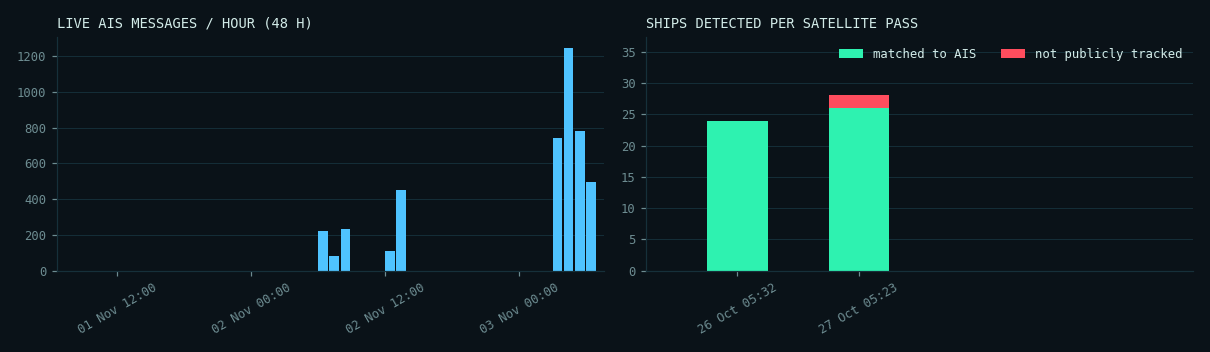
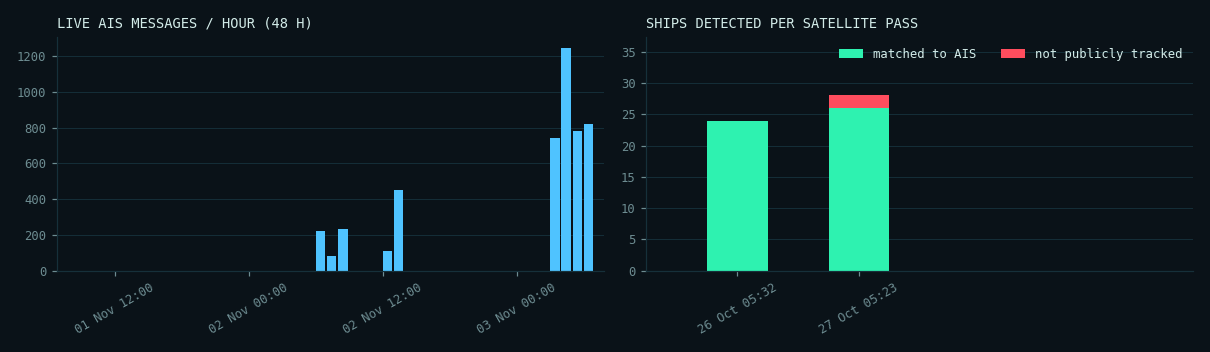
Automatic site update 2026-11-03 06:49 UTC

diff --git a/docs/denmark/index.html b/docs/denmark/index.html
@@ -83,13 +83,13 @@ footer{border-top:1px solid var(--line);padding:18px 0 28px;font:12px/1.6 var(--
   <div><div class="kicker">SAR &times; AIS &middot; MARITIME AWARENESS</div><div class="title">DARK VESSEL <b>DETECTION</b></div></div></a>
  <div class="status"><span class="pill"><span class="dot live"></span>AIS FEED <strong>LIVE</strong></span>
   <span class="pill">UTC <strong id="utc">--:--:--</strong></span>
-  <span class="pill">UPDATED <strong>03 Nov 06:35</strong></span></div>
+  <span class="pill">UPDATED <strong>03 Nov 06:49</strong></span></div>
 </div><nav class="tabs"><a class="" href="../index.html">OVERVIEW</a><a class="" href="../mumbai/index.html">MUMBAI</a><a class="on" href="../denmark/index.html">DENMARK</a><a class="" href="../nn/index.html">NEURAL NET</a><a class="" href="../demo/index.html">SIMULATION</a></nav></div></header>
 <main class="wrap"><div class="coords">SECTOR // DENMARK &middot; 55.55&ndash;55.85&deg;N &middot; 12.55&ndash;12.95&deg;E</div>
 <h1>Oresund, Copenhagen (Denmark/Sweden)</h1><p class="lede">Validation area. Sentinel-1 images it almost daily and coastal AIS coverage is dense, so the full match between radar and AIS can be shown and checked.</p>
 <div class="grid">
  <div class="panel"><div class="label">Live AIS feed</div><div class="value small"><span class='ok'>RECEIVING</span></div><div class="muted mono" style="font-size:12px;margin-top:6px">last message 0 min ago</div></div>
- <div class="panel"><div class="label">Ships broadcasting &middot; 30 min</div><div class="value cyan">58</div></div>
+ <div class="panel"><div class="label">Ships broadcasting &middot; 30 min</div><div class="value cyan">55</div></div>
  <div class="panel"><div class="label">Matched &middot; latest pass</div><div class="value ">26</div></div>
  <div class="panel"><div class="label">Not tracked &middot; high confidence</div><div class="value red">0</div></div>
  <div class="panel"><div class="label">Not tracked &middot; low confidence</div><div class="value amber">2</div></div>
@@ -98,7 +98,7 @@ footer{border-top:1px solid var(--line);padding:18px 0 28px;font:12px/1.6 var(--
 <div class="legend"><span><i style="background:var(--green)"></i>matched to AIS</span><span><i style="background:var(--red)"></i>not tracked &middot; high confidence</span>
 <span><i style="background:var(--amber)"></i>not tracked &middot; low confidence</span><span><i style="background:var(--cyan)"></i>live AIS position</span></div>
 <div id="map" class="map"></div><script>
-const D=[{"lon": 12.574560869565218, "lat": 55.849597826086956, "length_m": 72.681575622935, "score": 0.6554655519501138, "shore_km": 0.14150886088341372, "status": "matched", "reason": "", "confidence": "high", "crop": "", "ship_prob": 0.9335045218467712}, {"lon": 12.704759174311928, "lat": 55.82280412844037, "length_m": 364.1071436957287, "score": 0.9904753373251979, "shore_km": 9.407061429825474, "status": "matched", "reason": "", "confidence": "high", "crop": "", "ship_prob": 0.9868959784507751}, {"lon": 12.786416463414636, "lat": 55.804669512195126, "length_m": 155.0522474362954, "score": 0.9999646038759398, "shore_km": 4.658419014138412, "status": "matched", "reason": "", "confidence": "high", "crop": "", "ship_prob": 0.9993557333946228}, {"lon": 12.88229375, "lat": 55.849146875, "length_m": 53.38783327710226, "score": 0.9899546194309776, "shore_km": 0.9067240720863213, "status": "candidate", "reason": "same_spot_in_another_pass", "confidence": "low", "crop": "crops/S1-Oresund-20261027_37.png", "ship_prob": 0.7905591130256653}, {"lon": 12.604004166666668, "lat": 55.75985, "length_m": 141.84238362073958, "score": 0.6867268898684522, "shore_km": 0.07168283192738693, "status": "matched", "reason": "", "confidence": "high", "crop": "", "ship_prob": 0.5051270127296448}, {"lon": 12.605736764705883, "lat": 55.75241323529412, "length_m": 122.11483240811877, "score": 0.9136889320646264, "shore_km": 0.6454382429486746, "status": "candidate", "reason": "same_spot_in_another_pass", "confidence": "low", "crop": "crops/S1-Oresund-20261027_77.png", "ship_prob": 0.7927113175392151}, {"lon": 12.703722571428573, "lat": 55.77917742857143, "length_m": 223.0817648726515, "score": 0.9996320924909895, "shore_km": 5.943270442766068, "status": "matched", "reason": "", "confidence": "high", "crop": "", "ship_prob": 0.9938097596168518}, {"lon": 12.902757692307693, "lat": 55.75654230769231, "length_m": 65.46226537445588, "score": 0.7187896049600956, "shore_km": 0.03584141596369347, "status": "matched", "reason": "", "confidence": "high", "crop": "", "ship_prob": 0.8691755533218384}, {"lon": 12.589922222222222, "lat": 55.725764814814816, "length_m": 146.45480845096748, "score": 0.9957587025210503, "shore_km": 0.034771280891766385, "status": "matched", "reason": "", "confidence": "high", "crop": "", "ship_prob": 0.9983701109886169}, {"lon": 12.598472047244096, "lat": 55.72077913385827, "length_m": 207.62671185403417, "score": 0.609772230082722, "shore_km": 0.14016751439395445, "status": "matched", "reason": "", "confidence": "high", "crop": "", "ship_prob": 0.6074324250221252}, {"lon": 12.589218, "lat": 55.712854, "length_m": 90.49550243938293, "score": 0.6486089656085543, "shore_km": 0.043464101114707984, "status": "matched", "reason": "", "confidence": "high", "crop": "", "ship_prob": 0.9998902082443237}, {"lon": 12.59024090909091, "lat": 55.71147090909091, "length_m": 162.54265478639104, "score": 1.0, "shore_km": 0.06146752127277559, "status": "matched", "reason": "", "confidence": "high", "crop": "", "ship_prob": 0.9999992847442627}, {"lon": 12.597835937500001, "lat": 55.701648437500005, "length_m": 133.31776511703256, "score": 0.9396217092764791, "shore_km": 0.06789309632894441, "status": "matched", "reason": "", "confidence": "high", "crop": "", "ship_prob": 0.9999727010726929}, {"lon": 12.60914, "lat": 55.69712, "length_m": 65.36743236464424, "score": 0.7827588237578229, "shore_km": 0.03134240904220623, "status": "matched", "reason": "", "confidence": "high", "crop": "", "ship_prob": 0.9867132902145386}, {"lon": 12.668552272727274, "lat": 55.72007840909091, "length_m": 207.26605497726354, "score": 0.6251792307103263, "shore_km": 0.03584141596369347, "status": "matched", "reason": "", "confidence": "high", "crop": "", "ship_prob": 0.9087074398994446}, {"lon": 12.5996, "lat": 55.68885, "length_m": 40.00855981470757, "score": 0.7664068666153926, "shore_km": 0.024587008509110237, "status": "matched", "reason": "", "confidence": "high", "crop": "", "ship_prob": 0.9766618013381958}, {"lon": 12.595819230769232, "lat": 55.67989871794872, "length_m": 127.62371588738732, "score": 0.9426870407335851, "shore_km": 0.05068741655051085, "status": "matched", "reason": "", "confidence": "high", "crop": "", "ship_prob": 0.9998841285705566}, {"lon": 12.594722222222224, "lat": 55.67918888888889, "length_m": 40.64467714079742, "score": 0.7639524834029205, "shore_km": 0.043464101114707984, "status": "matched", "reason": "", "confidence": "high", "crop": "", "ship_prob": 0.9999454021453857}, {"lon": 12.610660714285714, "lat": 55.69618571428572, "length_m": 94.51225356515693, "score": 0.9621795096736379, "shore_km": 0.03134240904220623, "status": "matched", "reason": "", "confidence": "high", "crop": "", "ship_prob": 0.999042809009552}, {"lon": 12.649045000000001, "lat": 55.692155, "length_m": 80.63364746000343, "score": 0.8515033668168979, "shore_km": 0.8863693295037299, "status": "matched", "reason": "", "confidence": "high", "crop": "", "ship_prob": 0.4333752989768982}, {"lon": 12.630751724137932, "lat": 55.685453448275865, "length_m": 125.00287123881988, "score": 0.93629426700422, "shore_km": 0.043464101114707984, "status": "matched", "reason": "", "confidence": "high", "crop": "", "ship_prob": 0.9975905418395996}, {"lon": 12.634987254901962, "lat": 55.677338235294116, "length_m": 276.5478352749318, "score": 0.7686103584091717, "shore_km": 0.024587008509110237, "status": "matched", "reason": "", "confidence": "high", "crop": "", "ship_prob": 0.9729636907577515}, {"lon": 12.68766150442478, "lat": 55.69581814159292, "length_m": 176.8074930452176, "score": 0.923202226335388, "shore_km": 2.6834920471942074, "status": "matched", "reason": "", "confidence": "high", "crop": "", "ship_prob": 0.8427141904830933}, {"lon": 12.65826847826087, "lat": 55.63610108695652, "length_m": 174.21377549767067, "score": 0.9833187000337672, "shore_km": 0.043464101114707984, "status": "matched", "reason": "", "confidence": "high", "crop": "", "ship_prob": 0.9998973608016968}, {"lon": 12.680683333333334, "lat": 55.610910000000004, "length_m": 74.22790892756812, "score": 0.6314184609397504, "shore_km": 0.03134240904220623, "status": "matched", "reason": "", "confidence": "high", "crop": "", "ship_prob": 0.44054293632507324}, {"lon": 12.868352132196163, "lat": 55.60022420042644, "length_m": 299.20726350177785, "score": 0.9999960398718075, "shore_km": 2.8169298200726325, "status": "matched", "reason": "", "confidence": "high", "crop": "", "ship_prob": 0.9967911839485168}, {"lon": 12.680875, "lat": 55.59323, "length_m": 95.51211981545671, "score": 0.7585723176580392, "shore_km": 0.03584141596369347, "status": "matched", "reason": "", "confidence": "high", "crop": "", "ship_prob": 0.797581672668457}, {"lon": 12.706387741935485, "lat": 55.56306903225806, "length_m": 301.4640427512081, "score": 0.9999731380181186, "shore_km": 3.1965238712919084, "status": "matched", "reason": "", "confidence": "high", "crop": "", "ship_prob": 0.9941650032997131}],LIVE=[{"lon": 13.03514, "lat": 55.624698333333335, "sog": 0.1, "age": 26}, {"lon": 12.603501666666666, "lat": 55.76060333333333, "sog": 0.0, "age": 23}, {"lon": 12.676611666666668, "lat": 55.93177333333333, "sog": 0.0, "age": 21}, {"lon": 12.833733333333333, "lat": 55.85573333333333, "sog": 0.0, "age": 20}, {"lon": 12.665905, "lat": 55.719773333333336, "sog": 0.0, "age": 18}, {"lon": 12.646843333333333, "lat": 55.677389999999995, "sog": 0.0, "age": 16}, {"lon": 12.592983333333333, "lat": 55.67926166666667, "sog": 0.0, "age": 14}, {"lon": 12.593533333333333, "lat": 55.67915, "sog": 0.0, "age": 12}, {"lon": 12.835138333333333, "lat": 55.85987, "sog": 0.0, "age": 12}, {"lon": 12.990161666666667, "lat": 55.62688, "sog": 0.0, "age": 10}, {"lon": 13.033296666666667, "lat": 55.62452, "sog": 0.0, "age": 10}, {"lon": 12.692533333333333, "lat": 55.50602666666667, "sog": 10.1, "age": 10}, {"lon": 12.634111666666666, "lat": 55.675758333333334, "sog": 0.0, "age": 10}, {"lon": 12.955386666666667, "lat": 55.65205, "sog": 5.0, "age": 9}, {"lon": 12.634843333333333, "lat": 55.687155, "sog": 0.0, "age": 9}, {"lon": 12.729386666666667, "lat": 55.98001, "sog": 0.0, "age": 7}, {"lon": 12.594948333333333, "lat": 55.68244666666667, "sog": 0.0, "age": 6}, {"lon": 12.680433333333333, "lat": 55.611239999999995, "sog": 0.0, "age": 5}, {"lon": 12.488356666666666, "lat": 55.51745833333334, "sog": 0.0, "age": 5}, {"lon": 12.903505, "lat": 55.756643333333336, "sog": 0.1, "age": 5}, {"lon": 12.744415, "lat": 55.993293333333334, "sog": 0.0, "age": 5}, {"lon": 12.482431666666667, "lat": 55.60140666666667, "sog": 0.0, "age": 5}, {"lon": 12.8329, "lat": 55.85850666666667, "sog": 0.0, "age": 5}, {"lon": 12.694516666666667, "lat": 55.631795000000004, "sog": 9.9, "age": 4}, {"lon": 12.997353333333333, "lat": 55.61365, "sog": 0.0, "age": 4}, {"lon": 12.66508, "lat": 55.827745, "sog": 8.0, "age": 4}, {"lon": 12.744443333333333, "lat": 55.993225, "sog": 0.0, "age": 3}, {"lon": 12.62525, "lat": 55.69106166666666, "sog": 0.0, "age": 3}, {"lon": 12.999793333333335, "lat": 55.618365000000004, "sog": 0.0, "age": 3}, {"lon": 12.833333333333334, "lat": 55.855916666666666, "sog": 0.0, "age": 3}, {"lon": 12.766726666666667, "lat": 55.886995, "sog": 6.1, "age": 3}, {"lon": 12.823966666666667, "lat": 55.864866666666664, "sog": 6.0, "age": 3}, {"lon": 12.603496666666667, "lat": 55.760515000000005, "sog": 0.0, "age": 3}, {"lon": 12.68016, "lat": 55.59282333333333, "sog": 0.0, "age": 2}, {"lon": 12.680065, "lat": 55.59288166666667, "sog": 0.0, "age": 2}, {"lon": 12.98892, "lat": 55.62665666666667, "sog": 0.0, "age": 2}, {"lon": 12.599029999999999, "lat": 55.68902833333333, "sog": 0.0, "age": 2}, {"lon": 12.830413333333333, "lat": 55.85601333333333, "sog": 0.0, "age": 2}, {"lon": 12.823649999999999, "lat": 55.86640333333333, "sog": 0.1, "age": 2}, {"lon": 12.997253333333333, "lat": 55.61376, "sog": 0.1, "age": 2}, {"lon": 13.058503333333334, "lat": 55.67564333333333, "sog": 0.0, "age": 2}, {"lon": 12.892185000000001, "lat": 55.52374, "sog": 0.0, "age": 2}, {"lon": 12.825334999999999, "lat": 55.86550666666667, "sog": 0.0, "age": 2}, {"lon": 12.831928333333334, "lat": 55.85404333333334, "sog": 0.0, "age": 2}, {"lon": 12.72982, "lat": 55.75190166666666, "sog": 0.0, "age": 2}, {"lon": 13.033818333333333, "lat": 55.624583333333334, "sog": 0.0, "age": 2}, {"lon": 12.630748333333335, "lat": 55.689814999999996, "sog": 0.0, "age": 1}, {"lon": 12.635351666666667, "lat": 55.67645166666667, "sog": 0.0, "age": 1}, {"lon": 12.501046666666667, "lat": 55.611325, "sog": 0.0, "age": 1}, {"lon": 12.676873333333333, "lat": 55.593963333333335, "sog": 0.0, "age": 1}, {"lon": 12.666920000000001, "lat": 55.71885333333333, "sog": 0.0, "age": 1}, {"lon": 12.77362, "lat": 55.884143333333334, "sog": 7.0, "age": 0}, {"lon": 12.647461666666667, "lat": 55.67688166666667, "sog": 0.1, "age": 0}, {"lon": 12.572748333333333, "lat": 55.850856666666665, "sog": 0.0, "age": 0}, {"lon": 12.63975, "lat": 55.86651666666667, "sog": 7.1, "age": 0}, {"lon": 12.827591666666667, "lat": 55.862719999999996, "sog": 0.0, "age": 0}, {"lon": 12.662741666666667, "lat": 55.875035000000004, "sog": 8.2, "age": 0}, {"lon": 12.701395, "lat": 55.465651666666666, "sog": 11.1, "age": 0}],B=[[55.55,12.55],[55.85,12.95]];const m=L.map('map',{zoomSnap:.25}).fitBounds(B);
+const D=[{"lon": 12.574560869565218, "lat": 55.849597826086956, "length_m": 72.681575622935, "score": 0.6554655519501138, "shore_km": 0.14150886088341372, "status": "matched", "reason": "", "confidence": "high", "crop": "", "ship_prob": 0.9335045218467712}, {"lon": 12.704759174311928, "lat": 55.82280412844037, "length_m": 364.1071436957287, "score": 0.9904753373251979, "shore_km": 9.407061429825474, "status": "matched", "reason": "", "confidence": "high", "crop": "", "ship_prob": 0.9868959784507751}, {"lon": 12.786416463414636, "lat": 55.804669512195126, "length_m": 155.0522474362954, "score": 0.9999646038759398, "shore_km": 4.658419014138412, "status": "matched", "reason": "", "confidence": "high", "crop": "", "ship_prob": 0.9993557333946228}, {"lon": 12.88229375, "lat": 55.849146875, "length_m": 53.38783327710226, "score": 0.9899546194309776, "shore_km": 0.9067240720863213, "status": "candidate", "reason": "same_spot_in_another_pass", "confidence": "low", "crop": "crops/S1-Oresund-20261027_37.png", "ship_prob": 0.7905591130256653}, {"lon": 12.604004166666668, "lat": 55.75985, "length_m": 141.84238362073958, "score": 0.6867268898684522, "shore_km": 0.07168283192738693, "status": "matched", "reason": "", "confidence": "high", "crop": "", "ship_prob": 0.5051270127296448}, {"lon": 12.605736764705883, "lat": 55.75241323529412, "length_m": 122.11483240811877, "score": 0.9136889320646264, "shore_km": 0.6454382429486746, "status": "candidate", "reason": "same_spot_in_another_pass", "confidence": "low", "crop": "crops/S1-Oresund-20261027_77.png", "ship_prob": 0.7927113175392151}, {"lon": 12.703722571428573, "lat": 55.77917742857143, "length_m": 223.0817648726515, "score": 0.9996320924909895, "shore_km": 5.943270442766068, "status": "matched", "reason": "", "confidence": "high", "crop": "", "ship_prob": 0.9938097596168518}, {"lon": 12.902757692307693, "lat": 55.75654230769231, "length_m": 65.46226537445588, "score": 0.7187896049600956, "shore_km": 0.03584141596369347, "status": "matched", "reason": "", "confidence": "high", "crop": "", "ship_prob": 0.8691755533218384}, {"lon": 12.589922222222222, "lat": 55.725764814814816, "length_m": 146.45480845096748, "score": 0.9957587025210503, "shore_km": 0.034771280891766385, "status": "matched", "reason": "", "confidence": "high", "crop": "", "ship_prob": 0.9983701109886169}, {"lon": 12.598472047244096, "lat": 55.72077913385827, "length_m": 207.62671185403417, "score": 0.609772230082722, "shore_km": 0.14016751439395445, "status": "matched", "reason": "", "confidence": "high", "crop": "", "ship_prob": 0.6074324250221252}, {"lon": 12.589218, "lat": 55.712854, "length_m": 90.49550243938293, "score": 0.6486089656085543, "shore_km": 0.043464101114707984, "status": "matched", "reason": "", "confidence": "high", "crop": "", "ship_prob": 0.9998902082443237}, {"lon": 12.59024090909091, "lat": 55.71147090909091, "length_m": 162.54265478639104, "score": 1.0, "shore_km": 0.06146752127277559, "status": "matched", "reason": "", "confidence": "high", "crop": "", "ship_prob": 0.9999992847442627}, {"lon": 12.597835937500001, "lat": 55.701648437500005, "length_m": 133.31776511703256, "score": 0.9396217092764791, "shore_km": 0.06789309632894441, "status": "matched", "reason": "", "confidence": "high", "crop": "", "ship_prob": 0.9999727010726929}, {"lon": 12.60914, "lat": 55.69712, "length_m": 65.36743236464424, "score": 0.7827588237578229, "shore_km": 0.03134240904220623, "status": "matched", "reason": "", "confidence": "high", "crop": "", "ship_prob": 0.9867132902145386}, {"lon": 12.668552272727274, "lat": 55.72007840909091, "length_m": 207.26605497726354, "score": 0.6251792307103263, "shore_km": 0.03584141596369347, "status": "matched", "reason": "", "confidence": "high", "crop": "", "ship_prob": 0.9087074398994446}, {"lon": 12.5996, "lat": 55.68885, "length_m": 40.00855981470757, "score": 0.7664068666153926, "shore_km": 0.024587008509110237, "status": "matched", "reason": "", "confidence": "high", "crop": "", "ship_prob": 0.9766618013381958}, {"lon": 12.595819230769232, "lat": 55.67989871794872, "length_m": 127.62371588738732, "score": 0.9426870407335851, "shore_km": 0.05068741655051085, "status": "matched", "reason": "", "confidence": "high", "crop": "", "ship_prob": 0.9998841285705566}, {"lon": 12.594722222222224, "lat": 55.67918888888889, "length_m": 40.64467714079742, "score": 0.7639524834029205, "shore_km": 0.043464101114707984, "status": "matched", "reason": "", "confidence": "high", "crop": "", "ship_prob": 0.9999454021453857}, {"lon": 12.610660714285714, "lat": 55.69618571428572, "length_m": 94.51225356515693, "score": 0.9621795096736379, "shore_km": 0.03134240904220623, "status": "matched", "reason": "", "confidence": "high", "crop": "", "ship_prob": 0.999042809009552}, {"lon": 12.649045000000001, "lat": 55.692155, "length_m": 80.63364746000343, "score": 0.8515033668168979, "shore_km": 0.8863693295037299, "status": "matched", "reason": "", "confidence": "high", "crop": "", "ship_prob": 0.4333752989768982}, {"lon": 12.630751724137932, "lat": 55.685453448275865, "length_m": 125.00287123881988, "score": 0.93629426700422, "shore_km": 0.043464101114707984, "status": "matched", "reason": "", "confidence": "high", "crop": "", "ship_prob": 0.9975905418395996}, {"lon": 12.634987254901962, "lat": 55.677338235294116, "length_m": 276.5478352749318, "score": 0.7686103584091717, "shore_km": 0.024587008509110237, "status": "matched", "reason": "", "confidence": "high", "crop": "", "ship_prob": 0.9729636907577515}, {"lon": 12.68766150442478, "lat": 55.69581814159292, "length_m": 176.8074930452176, "score": 0.923202226335388, "shore_km": 2.6834920471942074, "status": "matched", "reason": "", "confidence": "high", "crop": "", "ship_prob": 0.8427141904830933}, {"lon": 12.65826847826087, "lat": 55.63610108695652, "length_m": 174.21377549767067, "score": 0.9833187000337672, "shore_km": 0.043464101114707984, "status": "matched", "reason": "", "confidence": "high", "crop": "", "ship_prob": 0.9998973608016968}, {"lon": 12.680683333333334, "lat": 55.610910000000004, "length_m": 74.22790892756812, "score": 0.6314184609397504, "shore_km": 0.03134240904220623, "status": "matched", "reason": "", "confidence": "high", "crop": "", "ship_prob": 0.44054293632507324}, {"lon": 12.868352132196163, "lat": 55.60022420042644, "length_m": 299.20726350177785, "score": 0.9999960398718075, "shore_km": 2.8169298200726325, "status": "matched", "reason": "", "confidence": "high", "crop": "", "ship_prob": 0.9967911839485168}, {"lon": 12.680875, "lat": 55.59323, "length_m": 95.51211981545671, "score": 0.7585723176580392, "shore_km": 0.03584141596369347, "status": "matched", "reason": "", "confidence": "high", "crop": "", "ship_prob": 0.797581672668457}, {"lon": 12.706387741935485, "lat": 55.56306903225806, "length_m": 301.4640427512081, "score": 0.9999731380181186, "shore_km": 3.1965238712919084, "status": "matched", "reason": "", "confidence": "high", "crop": "", "ship_prob": 0.9941650032997131}],LIVE=[{"lon": 12.488356666666666, "lat": 55.51745833333334, "sog": 0.0, "age": 19}, {"lon": 12.833333333333334, "lat": 55.855916666666666, "sog": 0.0, "age": 17}, {"lon": 12.98892, "lat": 55.62665666666667, "sog": 0.0, "age": 16}, {"lon": 12.831928333333334, "lat": 55.85404333333334, "sog": 0.0, "age": 15}, {"lon": 12.72982, "lat": 55.75190166666666, "sog": 0.0, "age": 15}, {"lon": 12.630748333333335, "lat": 55.689814999999996, "sog": 0.0, "age": 15}, {"lon": 12.603531666666667, "lat": 55.760585, "sog": 0.0, "age": 12}, {"lon": 12.644496666666667, "lat": 55.86146333333333, "sog": 6.4, "age": 11}, {"lon": 12.603488333333333, "lat": 55.76052, "sog": 0.0, "age": 10}, {"lon": 12.599025000000001, "lat": 55.68903, "sog": 0.0, "age": 10}, {"lon": 12.676871666666667, "lat": 55.593945, "sog": 0.0, "age": 10}, {"lon": 12.835138333333333, "lat": 55.85987, "sog": 0.0, "age": 8}, {"lon": 12.594931666666668, "lat": 55.68246333333333, "sog": 0.0, "age": 8}, {"lon": 12.8337, "lat": 55.85573333333333, "sog": 0.0, "age": 7}, {"lon": 12.67103, "lat": 55.80437, "sog": 7.5, "age": 7}, {"lon": 12.830375, "lat": 55.85599, "sog": 0.0, "age": 6}, {"lon": 12.74443, "lat": 55.99321833333333, "sog": 0.0, "age": 6}, {"lon": 12.997241666666667, "lat": 55.61376166666666, "sog": 0.0, "age": 6}, {"lon": 12.667035, "lat": 55.718873333333335, "sog": 0.0, "age": 5}, {"lon": 12.999793333333335, "lat": 55.618365000000004, "sog": 0.0, "age": 5}, {"lon": 12.634823333333333, "lat": 55.687153333333335, "sog": 0.0, "age": 4}, {"lon": 12.892186666666667, "lat": 55.52375, "sog": 0.0, "age": 4}, {"lon": 12.827631666666667, "lat": 55.86268666666667, "sog": 0.0, "age": 4}, {"lon": 12.593483333333333, "lat": 55.679125, "sog": 0.0, "age": 4}, {"lon": 12.990161666666667, "lat": 55.626885, "sog": 0.0, "age": 3}, {"lon": 12.793591666666666, "lat": 55.86846833333333, "sog": 5.7, "age": 3}, {"lon": 12.625265, "lat": 55.691069999999996, "sog": 0.0, "age": 3}, {"lon": 12.67917, "lat": 55.85080833333333, "sog": 8.4, "age": 3}, {"lon": 12.90349, "lat": 55.756643333333336, "sog": 0.1, "age": 3}, {"lon": 12.927976666666666, "lat": 55.67614833333334, "sog": 5.0, "age": 3}, {"lon": 12.706881666666668, "lat": 55.500275, "sog": 11.5, "age": 2}, {"lon": 12.634101666666668, "lat": 55.67576, "sog": 0.0, "age": 2}, {"lon": 12.825263333333334, "lat": 55.86550833333333, "sog": 0.0, "age": 2}, {"lon": 12.823638333333333, "lat": 55.866409999999995, "sog": 0.1, "age": 2}, {"lon": 13.033761666666667, "lat": 55.62455333333333, "sog": 0.0, "age": 1}, {"lon": 12.828116666666666, "lat": 55.86160666666667, "sog": 0.0, "age": 1}, {"lon": 12.680413333333332, "lat": 55.611255, "sog": 0.0, "age": 1}, {"lon": 12.997355, "lat": 55.61365333333333, "sog": 0.0, "age": 1}, {"lon": 13.058496666666667, "lat": 55.67566166666666, "sog": 0.0, "age": 1}, {"lon": 12.59298, "lat": 55.679265, "sog": 0.0, "age": 1}, {"lon": 12.744413333333334, "lat": 55.99330166666667, "sog": 0.0, "age": 1}, {"lon": 12.67176, "lat": 55.43888166666667, "sog": 10.7, "age": 0}, {"lon": 12.8329, "lat": 55.85850666666667, "sog": 0.0, "age": 0}, {"lon": 12.690681666666668, "lat": 55.58618, "sog": 8.7, "age": 0}, {"lon": 12.800338333333334, "lat": 55.867713333333334, "sog": 5.7, "age": 0}, {"lon": 12.701333333333334, "lat": 55.58576166666667, "sog": 8.9, "age": 0}, {"lon": 13.033296666666667, "lat": 55.62450666666667, "sog": 0.0, "age": 0}, {"lon": 12.729733333333334, "lat": 55.980090000000004, "sog": 0.0, "age": 0}, {"lon": 12.572735, "lat": 55.85085333333333, "sog": 0.0, "age": 0}, {"lon": 12.635388333333333, "lat": 55.676476666666666, "sog": 0.0, "age": 0}, {"lon": 12.485629999999999, "lat": 55.600620000000006, "sog": 0.0, "age": 0}, {"lon": 12.501059999999999, "lat": 55.611308333333334, "sog": 0.0, "age": 0}, {"lon": 12.680063333333333, "lat": 55.59287500000001, "sog": 0.0, "age": 0}, {"lon": 12.647476666666668, "lat": 55.676878333333335, "sog": 0.1, "age": 0}, {"lon": 12.82465, "lat": 55.86561666666667, "sog": 3.4, "age": 0}],B=[[55.55,12.55],[55.85,12.95]];const m=L.map('map',{zoomSnap:.25}).fitBounds(B);
 // re-fit once layout has settled: if the container had no size when the map was created, Leaflet falls back to zoom 0
 const refit=()=>{m.invalidateSize();m.fitBounds(B);};setTimeout(refit,0);window.addEventListener('load',refit);
 // standard OSM tiles (no API key), turned into a dark "radar console" basemap with a CSS filter (.radar-tiles)
@@ -116,7 +116,7 @@ L.control.layers(null,{'Radar detections (selected pass)':det,'Live AIS, last 30
 </script>
 <h2>Pass log</h2><div class='tablewrap'><table><thead><tr><th>pass (UTC)</th><th>ships</th><th>matched</th><th>not tracked</th><th>low conf.</th><th>match rate</th><th>AIS msgs</th></tr></thead><tbody><tr><td>2026-10-27 05:23 UTC</td><td>28</td><td class='ok'>26</td><td class='bad'>0</td><td style='color:var(--amber)'>2</td><td>93%</td><td>10687</td></tr><tr><td>2026-10-26 05:32 UTC</td><td>24</td><td class='ok'>24</td><td class='bad'>0</td><td style='color:var(--amber)'>0</td><td>100%</td><td>11603</td></tr></tbody></table></div>
 <h2>Telemetry</h2><img class="chart" src="charts.png" alt="AIS messages per hour and ships detected per pass">
-<p class="muted mono" style="font-size:12px">Feed gaps in the last 24 h: 15 (1210 min) &middot; AIS messages in the last hour: 800</p>
+<p class="muted mono" style="font-size:12px">Feed gaps in the last 24 h: 15 (1210 min) &middot; AIS messages in the last hour: 824</p>
 <h2>Recent Sentinel-1 acquisitions</h2><ul class="acq"><li>2026-11-02 05:23 UTC</li><li>2026-11-01 16:44 UTC</li><li>2026-11-01 05:31 UTC</li><li>2026-10-31 16:52 UTC</li><li>2026-10-30 17:00 UTC</li><li>2026-10-27 05:23 UTC</li><li>2026-10-26 05:32 UTC</li><li>2026-10-25 16:52 UTC</li></ul></main>
 <footer><div class="wrap">Data: Copernicus Sentinel-1 (ESA) &middot; AIS via aisstream.io and the Danish Maritime Authority &middot;
 coastlines, structures and basemap &copy; OpenStreetMap contributors. Flags are candidates for review, not accusations.</div></footer>

diff --git a/docs/index.html b/docs/index.html
@@ -83,7 +83,7 @@ footer{border-top:1px solid var(--line);padding:18px 0 28px;font:12px/1.6 var(--
   <div><div class="kicker">SAR &times; AIS &middot; MARITIME AWARENESS</div><div class="title">DARK VESSEL <b>DETECTION</b></div></div></a>
  <div class="status"><span class="pill"><span class="dot live"></span>AIS FEED <strong>LIVE</strong></span>
   <span class="pill">UTC <strong id="utc">--:--:--</strong></span>
-  <span class="pill">UPDATED <strong>03 Nov 06:35</strong></span></div>
+  <span class="pill">UPDATED <strong>03 Nov 06:49</strong></span></div>
 </div><nav class="tabs"><a class="on" href="index.html">OVERVIEW</a><a class="" href="mumbai/index.html">MUMBAI</a><a class="" href="denmark/index.html">DENMARK</a><a class="" href="nn/index.html">NEURAL NET</a><a class="" href="demo/index.html">SIMULATION</a></nav></div></header>
 <main class="wrap"><div class="coords">SYSTEM OVERVIEW</div>
 <h1>Ships the radar sees that nobody is tracking</h1>
@@ -91,7 +91,7 @@ footer{border-top:1px solid var(--line);padding:18px 0 28px;font:12px/1.6 var(--
 This system compares the two for each processed Sentinel-1 pass and lists the ships that appear on radar with no matching AIS signal.</p>
 <div class="grid" style="margin-top:18px"><div class="panel"><div class="label">Satellite passes processed</div><div class="value ">3</div></div><div class="panel"><div class="label">Ships matched to AIS</div><div class="value ">50</div></div>
 <div class="panel"><div class="label">Not tracked &middot; high confidence</div><div class="value red">0</div></div><div class="panel"><div class="label">Not tracked &middot; low confidence</div><div class="value amber">117</div></div>
-<div class="panel"><div class="label">Broadcasting now &middot; 30 min</div><div class="value cyan">58</div></div></div>
+<div class="panel"><div class="label">Broadcasting now &middot; 30 min</div><div class="value cyan">55</div></div></div>
 <p class="muted" style="font-size:13px;margin-top:10px"><b>High confidence</b> = no AIS ship nearby although the AIS feed was healthy and the
 target is within receiver range, and it is not at a spot where something was also seen on another pass. Everything else is
 <b>low confidence</b>: the data cannot support calling it dark (for example Mumbai, where no AIS was available for the pass at all).</p>
@@ -114,14 +114,14 @@ same pipeline using historical AIS. Next expected passes: Mumbai about 5 Nov 01:
 <div class="kv"><span>ships matched to AIS</span><span class="ok">50</span></div>
 <div class="kv"><span>not tracked, high confidence</span><span class="bad">0</span></div>
 <div class="kv"><span>not tracked, low confidence</span><span style="color:var(--amber)">2</span></div>
-<div class="kv"><span>broadcasting now (30 min)</span><span style="color:var(--cyan)">58</span></div>
+<div class="kv"><span>broadcasting now (30 min)</span><span style="color:var(--cyan)">55</span></div>
 <div class="go">OPEN SECTOR &rarr;</div></a></div>
 <h2>Read before trusting a flag</h2>
 <div class="alert"><b>"Not publicly tracked" is not "switched off".</b> Small boats often carry no public AIS, free AIS comes from coastal
 receivers with limited range, and ships under about 40 m are not reliably visible to the satellite. Low-confidence flags are the ones the
 data cannot support: beyond receiver range, during an AIS feed gap, or with no AIS recorded.</div>
 <h2>Automatic runs</h2><p class="muted mono" style="font-size:12.5px;margin-top:-4px">Each row is one automatic website rebuild, with the live AIS counts at that moment. Newest first.</p>
-<div class="tablewrap"><table><thead><tr><th>run (UTC)</th><th>mumbai live</th><th>mumbai msg/h</th><th>denmark live</th><th>denmark msg/h</th></tr></thead><tbody><tr><td>2026-11-03 06:35</td><td>0</td><td>0</td><td>58</td><td>800</td></tr><tr><td>2026-11-03 06:34</td><td>0</td><td>0</td><td>58</td><td>816</td></tr><tr><td>2026-11-03 06:20</td><td>0</td><td>0</td><td>51</td><td>876</td></tr><tr><td>2026-11-03 06:19</td><td>0</td><td>0</td><td>47</td><td>866</td></tr><tr><td>2026-11-03 05:46</td><td>0</td><td>0</td><td>62</td><td>986</td></tr><tr><td>2026-11-03 05:44</td><td>0</td><td>0</td><td>62</td><td>992</td></tr><tr><td>2026-11-03 05:30</td><td>0</td><td>0</td><td>57</td><td>972</td></tr><tr><td>2026-11-03 05:29</td><td>0</td><td>0</td><td>57</td><td>970</td></tr><tr><td>2026-11-03 05:14</td><td>0</td><td>0</td><td>50</td><td>1000</td></tr><tr><td>2026-11-03 05:13</td><td>0</td><td>0</td><td>50</td><td>1026</td></tr><tr><td>2026-11-03 04:59</td><td>0</td><td>0</td><td>58</td><td>1250</td></tr><tr><td>2026-11-03 04:58</td><td>0</td><td>0</td><td>59</td><td>1250</td></tr><tr><td>2026-11-03 04:44</td><td>0</td><td>0</td><td>60</td><td>1240</td></tr><tr><td>2026-11-03 04:42</td><td>0</td><td>0</td><td>59</td><td>1248</td></tr><tr><td>2026-11-03 04:28</td><td>0</td><td>0</td><td>58</td><td>1242</td></tr><tr><td>2026-11-03 04:27</td><td>0</td><td>0</td><td>57</td><td>1240</td></tr><tr><td>2026-11-03 04:12</td><td>0</td><td>0</td><td>56</td><td>994</td></tr><tr><td>2026-11-03 04:11</td><td>0</td><td>0</td><td>56</td><td>967</td></tr><tr><td>2026-11-03 03:57</td><td>0</td><td>0</td><td>59</td><td>666</td></tr><tr><td>2026-11-03 03:55</td><td>0</td><td>0</td><td>59</td><td>644</td></tr><tr><td>2026-11-03 03:41</td><td>0</td><td>0</td><td>58</td><td>348</td></tr><tr><td>2026-11-03 03:40</td><td>0</td><td>0</td><td>58</td><td>330</td></tr><tr><td>2026-11-03 03:26</td><td>0</td><td>0</td><td>31</td><td>65</td></tr><tr><td>2026-11-03 03:24</td><td>0</td><td>0</td><td>27</td><td>52</td></tr></tbody></table></div></main>
+<div class="tablewrap"><table><thead><tr><th>run (UTC)</th><th>mumbai live</th><th>mumbai msg/h</th><th>denmark live</th><th>denmark msg/h</th></tr></thead><tbody><tr><td>2026-11-03 06:49</td><td>0</td><td>0</td><td>55</td><td>824</td></tr><tr><td>2026-11-03 06:35</td><td>0</td><td>0</td><td>58</td><td>800</td></tr><tr><td>2026-11-03 06:34</td><td>0</td><td>0</td><td>58</td><td>816</td></tr><tr><td>2026-11-03 06:20</td><td>0</td><td>0</td><td>51</td><td>876</td></tr><tr><td>2026-11-03 06:19</td><td>0</td><td>0</td><td>47</td><td>866</td></tr><tr><td>2026-11-03 05:46</td><td>0</td><td>0</td><td>62</td><td>986</td></tr><tr><td>2026-11-03 05:44</td><td>0</td><td>0</td><td>62</td><td>992</td></tr><tr><td>2026-11-03 05:30</td><td>0</td><td>0</td><td>57</td><td>972</td></tr><tr><td>2026-11-03 05:29</td><td>0</td><td>0</td><td>57</td><td>970</td></tr><tr><td>2026-11-03 05:14</td><td>0</td><td>0</td><td>50</td><td>1000</td></tr><tr><td>2026-11-03 05:13</td><td>0</td><td>0</td><td>50</td><td>1026</td></tr><tr><td>2026-11-03 04:59</td><td>0</td><td>0</td><td>58</td><td>1250</td></tr><tr><td>2026-11-03 04:58</td><td>0</td><td>0</td><td>59</td><td>1250</td></tr><tr><td>2026-11-03 04:44</td><td>0</td><td>0</td><td>60</td><td>1240</td></tr><tr><td>2026-11-03 04:42</td><td>0</td><td>0</td><td>59</td><td>1248</td></tr><tr><td>2026-11-03 04:28</td><td>0</td><td>0</td><td>58</td><td>1242</td></tr><tr><td>2026-11-03 04:27</td><td>0</td><td>0</td><td>57</td><td>1240</td></tr><tr><td>2026-11-03 04:12</td><td>0</td><td>0</td><td>56</td><td>994</td></tr><tr><td>2026-11-03 04:11</td><td>0</td><td>0</td><td>56</td><td>967</td></tr><tr><td>2026-11-03 03:57</td><td>0</td><td>0</td><td>59</td><td>666</td></tr><tr><td>2026-11-03 03:55</td><td>0</td><td>0</td><td>59</td><td>644</td></tr><tr><td>2026-11-03 03:41</td><td>0</td><td>0</td><td>58</td><td>348</td></tr><tr><td>2026-11-03 03:40</td><td>0</td><td>0</td><td>58</td><td>330</td></tr><tr><td>2026-11-03 03:26</td><td>0</td><td>0</td><td>31</td><td>65</td></tr></tbody></table></div></main>
 <footer><div class="wrap">Data: Copernicus Sentinel-1 (ESA) &middot; AIS via aisstream.io and the Danish Maritime Authority &middot;
 coastlines, structures and basemap &copy; OpenStreetMap contributors. Flags are candidates for review, not accusations.</div></footer>
 <script>(function(){const e=document.getElementById('utc');const t=()=>e.textContent=new Date().toISOString().slice(11,19);t();setInterval(t,1000);})();</script>

diff --git a/docs/mumbai/index.html b/docs/mumbai/index.html
@@ -83,7 +83,7 @@ footer{border-top:1px solid var(--line);padding:18px 0 28px;font:12px/1.6 var(--
   <div><div class="kicker">SAR &times; AIS &middot; MARITIME AWARENESS</div><div class="title">DARK VESSEL <b>DETECTION</b></div></div></a>
  <div class="status"><span class="pill"><span class="dot live"></span>AIS FEED <strong>LIVE</strong></span>
   <span class="pill">UTC <strong id="utc">--:--:--</strong></span>
-  <span class="pill">UPDATED <strong>03 Nov 06:35</strong></span></div>
+  <span class="pill">UPDATED <strong>03 Nov 06:49</strong></span></div>
 </div><nav class="tabs"><a class="" href="../index.html">OVERVIEW</a><a class="on" href="../mumbai/index.html">MUMBAI</a><a class="" href="../denmark/index.html">DENMARK</a><a class="" href="../nn/index.html">NEURAL NET</a><a class="" href="../demo/index.html">SIMULATION</a></nav></div></header>
 <main class="wrap"><div class="coords">SECTOR // MUMBAI &middot; 18.80&ndash;19.10&deg;N &middot; 72.55&ndash;72.95&deg;E</div>
 <h1>Mumbai coast and harbour, India</h1><p class="lede">The project's target area. Sentinel-1 images it about once every 12 days, and free AIS comes only from coastal receivers, so many unmatched ships here are simply out of receiver range.</p>

diff --git a/docs/demo/index.html b/docs/demo/index.html
@@ -83,7 +83,7 @@ footer{border-top:1px solid var(--line);padding:18px 0 28px;font:12px/1.6 var(--
   <div><div class="kicker">SAR &times; AIS &middot; MARITIME AWARENESS</div><div class="title">DARK VESSEL <b>DETECTION</b></div></div></a>
  <div class="status"><span class="pill"><span class="dot live"></span>AIS FEED <strong>LIVE</strong></span>
   <span class="pill">UTC <strong id="utc">--:--:--</strong></span>
-  <span class="pill">UPDATED <strong>03 Nov 06:35</strong></span></div>
+  <span class="pill">UPDATED <strong>03 Nov 06:49</strong></span></div>
 </div><nav class="tabs"><a class="" href="../index.html">OVERVIEW</a><a class="" href="../mumbai/index.html">MUMBAI</a><a class="" href="../denmark/index.html">DENMARK</a><a class="" href="../nn/index.html">NEURAL NET</a><a class="on" href="../demo/index.html">SIMULATION</a></nav></div></header>
 <main class="wrap"><div class="coords">SIMULATION // SYNTHETIC SCENES WITH KNOWN GROUND TRUTH</div>
 <h1>Simulation: the whole pipeline with a known answer</h1>

diff --git a/docs/nn/index.html b/docs/nn/index.html
@@ -83,7 +83,7 @@ footer{border-top:1px solid var(--line);padding:18px 0 28px;font:12px/1.6 var(--
   <div><div class="kicker">SAR &times; AIS &middot; MARITIME AWARENESS</div><div class="title">DARK VESSEL <b>DETECTION</b></div></div></a>
  <div class="status"><span class="pill"><span class="dot live"></span>AIS FEED <strong>LIVE</strong></span>
   <span class="pill">UTC <strong id="utc">--:--:--</strong></span>
-  <span class="pill">UPDATED <strong>03 Nov 06:35</strong></span></div>
+  <span class="pill">UPDATED <strong>03 Nov 06:49</strong></span></div>
 </div><nav class="tabs"><a class="" href="../index.html">OVERVIEW</a><a class="" href="../mumbai/index.html">MUMBAI</a><a class="" href="../denmark/index.html">DENMARK</a><a class="on" href="../nn/index.html">NEURAL NET</a><a class="" href="../demo/index.html">SIMULATION</a></nav></div></header>
 <main class="wrap"><div class="coords">NEURAL NETWORK // SHIPCNN</div>
 <h1>ShipCNN: our own convolutional network that decides "is this a ship?"</h1>
